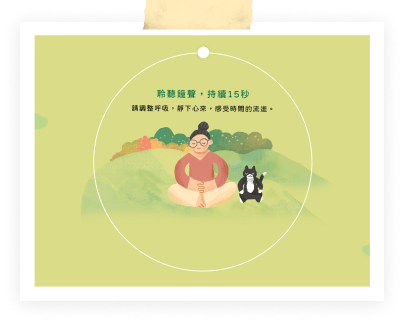
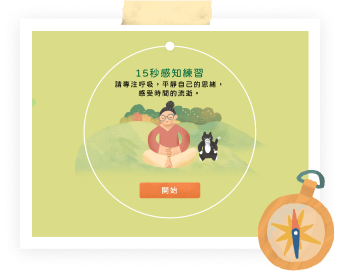
update ui

diff --git a/js/game/game2-common.js b/js/game/game2-common.js
@@ -75,9 +75,9 @@ function InitializeGame2UI() {
     gameUILibrary.AddUIElements({
         "ui-loading-bg": {transform:{left:'0%', top:'0%', width:'100%', height:'100%'}, image:{imgSrc:"img/gameCommon/loading-bg-min.png"}},
         // "ui-loading-title": {transform:{top:'17.5%', height:'10%'}, text:{fontFamily:'CustomFont', fontSize:46, letterSpacing:4, color:'#00693E', text:'「觀」官相識'}},
-        "ui-loading-title": {transform:{left:'40.59%', top:'15.4%', width:'18.81%', height:'7%'}, image:{imgSrc:"img/game2ui/title-2-min.png"}},
-        "ui-loading-img-main": {transform:{left:'37.375%', top:'24.5%', width:'25.25%', height:'35.89%'}, image:{imgSrc:"img/game2ui/loading-main-min.png"}},
-        "ui-loading-img-compass": {transform:{left:'55.7%', top:'48.2%', width:'9.75%', height:'16.33%'}, image:{imgSrc:"img/gameCommon/loading-compass-min.png"}},
+        "ui-loading-title": {transform:{left:'38.43%', top:'13.66%', width:'23.88%', height:'8.88%'}, image:{imgSrc:"img/game2ui/title-2-min.png"}},
+        "ui-loading-img-main": {transform:{left:'40.18%', top:'28%', width:'21.25%', height:'30.11%'}, image:{imgSrc:"img/game2ui/loading-main-min.png"}},
+        // "ui-loading-img-compass": {transform:{left:'55.7%', top:'48.2%', width:'9.75%', height:'16.33%'}, image:{imgSrc:"img/gameCommon/loading-compass-min.png"}},
         "ui-loading-loadingbar": {transform:{left:'28%', top:'70.5%', width:'44%', height:'1.8%'}, loadingBar:{color1: '#fff', color2: '#F97930', round: 10}},
         "ui-loading-img-nail": {transform:{left:'27%', top:'66.5%', width:'4%', height:'7.22%'}, image:{imgSrc:"img/gameCommon/loading-nail-min.png"}},
         "ui-loading-img-sound": {transform:{left:'17.5%', top:'77.5%', width:'2.8125%', height:'5%'}, image:{imgSrc:"img/gameCommon/loading-sound.gif"}},
@@ -98,7 +98,7 @@ function InitializeGame2UI() {
         "ui-main-button4": {transform:{left:'33.1%', top:'66.19%', width:'33.8%', height:'9.36%'}, button:{imgSrc:"img/gameCommon/button-min.png", round:10, fontFamily:'CustomFont', fontSize:42, letterSpacing:4, color:'white', text:'', onclick:()=>{OnClickGame2UIButton(4);}}},
         "ui-main-image-correct": {transform:{left:'45.31%', top:'29%', width:'9.375%', height:'16.67%'}, image:{imgSrc:"img/gameCommon/correct-min.png"}},
         "ui-main-image-wrong": {transform:{left:'45.31%', top:'29%', width:'9.375%', height:'16.67%'}, image:{imgSrc:"img/gameCommon/wrong-min.png"}},
-        "ui-main-image-bird": {transform:{left:'42.53%', top:'29%', width:'14.94%', height:'19.83%'}, image:{imgSrc:"img/game2ui/bird-min.png"}},
+        "ui-main-image-bird": {transform:{left:'40.43%', top:'35.55%', width:'18.75%', height:'22.22%'}, image:{imgSrc:"img/game2ui/bird-min.png"}},
 
         // "ui-bg": {transform:{left:'0', top:'0', width:'100%', height:'100%'}, image:{imgSrc:"img/11.jpg"}},
     });
@@ -123,7 +123,7 @@ function ShowGame2LoadingUI() {
     gameUILibrary.data["ui-loading-bg"].SetEnabled(true);
     gameUILibrary.data["ui-loading-title"].SetEnabled(true);
     gameUILibrary.data["ui-loading-img-main"].SetEnabled(true);
-    gameUILibrary.data["ui-loading-img-compass"].SetEnabled(true);
+    // gameUILibrary.data["ui-loading-img-compass"].SetEnabled(true);
     gameUILibrary.data["ui-loading-loadingbar"].SetEnabled(true);
     gameUILibrary.data["ui-loading-img-nail"].SetEnabled(true);
     gameUILibrary.data["ui-loading-img-sound"].SetEnabled(true);
@@ -143,7 +143,7 @@ function HideGame2LoadingUI() {
     gameUILibrary.data["ui-loading-bg"].SetEnabled(false);
     gameUILibrary.data["ui-loading-title"].SetEnabled(false);
     gameUILibrary.data["ui-loading-img-main"].SetEnabled(false);
-    gameUILibrary.data["ui-loading-img-compass"].SetEnabled(false);
+    // gameUILibrary.data["ui-loading-img-compass"].SetEnabled(false);
     gameUILibrary.data["ui-loading-loadingbar"].SetEnabled(false);
     gameUILibrary.data["ui-loading-img-nail"].SetEnabled(false);
     gameUILibrary.data["ui-loading-img-sound"].SetEnabled(false);

diff --git a/js/game/game5-main.js b/js/game/game5-main.js
@@ -190,9 +190,10 @@ function InitializeGame5UI() {
     gameUILibrary.AddUIElements({
         "ui-loading-bg": {transform:{left:'0%', top:'0%', width:'100%', height:'100%'}, image:{imgSrc:"img/gameCommon/loading-bg-min.png"}},
         // "ui-loading-title": {transform:{top:'15.4%', height:'10%'}, text:{fontFamily:'CustomFont', fontSize:38, letterSpacing:4, color:'#00693E', text:'靜觀動樂 配對大挑戰'}},
-        "ui-loading-title": {transform:{left:'24.07%', top:'15.4%', width:'51.85%', height:'6.88%'}, image:{imgSrc:"img/game5ui/title-5-min.png"}},
-        "ui-loading-img-main": {transform:{left:'40.16%', top:'25.5%', width:'19.68%', height:'30.11%'}, image:{imgSrc:"img/game5ui/loading-main-min.png"}},
-        "ui-loading-img-compass": {transform:{left:'53.2%', top:'43.4%', width:'9.03%', height:'16.33%'}, image:{imgSrc:"img/gameCommon/loading-compass-min.png"}},
+        "ui-loading-title": {transform:{left:'26.21%', top:'13.66%', width:'22.35%', height:'8.88%'}, image:{imgSrc:"img/game5ui/title-5a-min.png"}},
+        "ui-loading-title2": {transform:{left:'50.30%', top:'13.66%', width:'23.79%', height:'8.88%'}, image:{imgSrc:"img/game5ui/title-5b-min.png"}},
+        "ui-loading-img-main": {transform:{left:'40.74%', top:'25.88%', width:'19.68%', height:'30.11%'}, image:{imgSrc:"img/game5ui/loading-main-min.png"}},
+        // "ui-loading-img-compass": {transform:{left:'53.2%', top:'43.4%', width:'9.03%', height:'16.33%'}, image:{imgSrc:"img/gameCommon/loading-compass-min.png"}},
         "ui-loading-loadingbar": {transform:{left:'30%', top:'64%', width:'40%', height:'1.8%'}, loadingBar:{color1: '#fff', color2: '#F97930', round: 10}},
         "ui-loading-img-nail": {transform:{left:'28%', top:'60%', width:'4%', height:'7.22%'}, image:{imgSrc:"img/gameCommon/loading-nail-min.png"}},
         "ui-loading-img-sound": {transform:{left:'17.5%', top:'77.5%', width:'3.47%', height:'6.67%'}, image:{imgSrc:"img/gameCommon/loading-sound.gif"}},
@@ -272,8 +273,9 @@ function InitializeGame5UI() {
 function ShowGame5LoadingUI() {
     gameUILibrary.data["ui-loading-bg"].SetEnabled(true);
     gameUILibrary.data["ui-loading-title"].SetEnabled(true);
+    gameUILibrary.data["ui-loading-title2"].SetEnabled(true);
     gameUILibrary.data["ui-loading-img-main"].SetEnabled(true);
-    gameUILibrary.data["ui-loading-img-compass"].SetEnabled(true);
+    // gameUILibrary.data["ui-loading-img-compass"].SetEnabled(true);
     gameUILibrary.data["ui-loading-loadingbar"].SetEnabled(true);
     gameUILibrary.data["ui-loading-img-nail"].SetEnabled(true);
     gameUILibrary.data["ui-loading-img-sound"].SetEnabled(true);
@@ -290,8 +292,9 @@ function UpdateGame5LoadingBar(_progress) {
 function HideGame5LoadingUI() {
     gameUILibrary.data["ui-loading-bg"].SetEnabled(false);
     gameUILibrary.data["ui-loading-title"].SetEnabled(false);
+    gameUILibrary.data["ui-loading-title2"].SetEnabled(false);
     gameUILibrary.data["ui-loading-img-main"].SetEnabled(false);
-    gameUILibrary.data["ui-loading-img-compass"].SetEnabled(false);
+    // gameUILibrary.data["ui-loading-img-compass"].SetEnabled(false);
     gameUILibrary.data["ui-loading-loadingbar"].SetEnabled(false);
     gameUILibrary.data["ui-loading-img-nail"].SetEnabled(false);
     gameUILibrary.data["ui-loading-img-sound"].SetEnabled(false);

diff --git a/js/game/game1-main.js b/js/game/game1-main.js
@@ -54,9 +54,9 @@ function InitializeGame1UI() {
     gameUILibrary.AddUIElements({
         "ui-loading-bg": {transform:{left:'0%', top:'0%', width:'100%', height:'100%'}, image:{imgSrc:"img/gameCommon/loading-bg-min.png"}},
         // "ui-loading-title": {transform:{top:'15.4%', height:'10%'}, text:{fontFamily:'CustomFont', fontSize:38, letterSpacing:4, color:'#00693E', text:'「靜」之感知'}},
-        "ui-loading-title": {transform:{left:'41.61%', top:'15.4%', width:'16.78%', height:'7.89%'}, image:{imgSrc:"img/game1ui/title-1-min.png"}},
-        "ui-loading-img-main": {transform:{left:'40.16%', top:'25.5%', width:'19.68%', height:'30.11%'}, image:{imgSrc:"img/game1ui/loading-main-min.png"}},
-        "ui-loading-img-compass": {transform:{left:'53.2%', top:'43.4%', width:'9.03%', height:'16.33%'}, image:{imgSrc:"img/gameCommon/loading-compass-min.png"}},
+        "ui-loading-title": {transform:{left:'40.39%', top:'13.66%', width:'19.67%', height:'9.28%'}, image:{imgSrc:"img/game1ui/title-1-min.png"}},
+        "ui-loading-img-main": {transform:{left:'40.79%', top:'26.28%', width:'19.67%', height:'30.11%'}, image:{imgSrc:"img/game1ui/loading-main-min.png"}},
+        // "ui-loading-img-compass": {transform:{left:'53.2%', top:'43.4%', width:'9.03%', height:'16.33%'}, image:{imgSrc:"img/gameCommon/loading-compass-min.png"}},
         "ui-loading-loadingbar": {transform:{left:'30%', top:'64%', width:'40%', height:'1.8%'}, loadingBar:{color1: '#fff', color2: '#F97930', round: 10}},
         "ui-loading-img-nail": {transform:{left:'28%', top:'60%', width:'4%', height:'7.22%'}, image:{imgSrc:"img/gameCommon/loading-nail-min.png"}},
         "ui-loading-img-sound": {transform:{left:'17.5%', top:'77.5%', width:'3.47%', height:'6.67%'}, image:{imgSrc:"img/gameCommon/loading-sound.gif"}},
@@ -119,7 +119,7 @@ function ShowLoadingGame1UI() {
     gameUILibrary.data["ui-loading-bg"].SetEnabled(true);
     gameUILibrary.data["ui-loading-title"].SetEnabled(true);
     gameUILibrary.data["ui-loading-img-main"].SetEnabled(true);
-    gameUILibrary.data["ui-loading-img-compass"].SetEnabled(true);
+    // gameUILibrary.data["ui-loading-img-compass"].SetEnabled(true);
     gameUILibrary.data["ui-loading-loadingbar"].SetEnabled(true);
     gameUILibrary.data["ui-loading-img-nail"].SetEnabled(true);
     gameUILibrary.data["ui-loading-img-sound"].SetEnabled(true);
@@ -137,7 +137,7 @@ function HideGame1LoadingUI() {
     gameUILibrary.data["ui-loading-bg"].SetEnabled(false);
     gameUILibrary.data["ui-loading-title"].SetEnabled(false);
     gameUILibrary.data["ui-loading-img-main"].SetEnabled(false);
-    gameUILibrary.data["ui-loading-img-compass"].SetEnabled(false);
+    // gameUILibrary.data["ui-loading-img-compass"].SetEnabled(false);
     gameUILibrary.data["ui-loading-loadingbar"].SetEnabled(false);
     gameUILibrary.data["ui-loading-img-nail"].SetEnabled(false);
     gameUILibrary.data["ui-loading-img-sound"].SetEnabled(false);

diff --git a/js/game/game3-main.js b/js/game/game3-main.js
@@ -61,9 +61,9 @@ function InitializeGame3UI() {
     gameUILibrary.AddUIElements({
         "ui-loading-bg": {transform:{left:'0%', top:'0%', width:'100%', height:'100%'}, image:{imgSrc:"img/gameCommon/loading-bg-min.png"}},
         // "ui-loading-title": {transform:{top:'15.4%', height:'10%'}, text:{fontFamily:'CustomFont', fontSize:52, letterSpacing:4, color:'#00693E', text:'「動」破激流'}},
-        "ui-loading-title": {transform:{left:'40.75%', top:'15.4%', width:'18.51%', height:'6.55%'}, image:{imgSrc:"img/game3ui/title-3-min.png"}},
-        "ui-loading-img-main": {transform:{left:'40.16%', top:'25.5%', width:'19.68%', height:'30.11%'}, image:{imgSrc:"img/game3ui/loading-main-min.png"}},
-        "ui-loading-img-compass": {transform:{left:'53.2%', top:'43.4%', width:'9.03%', height:'16.33%'}, image:{imgSrc:"img/gameCommon/loading-compass-min.png"}},
+        "ui-loading-title": {transform:{left:'37.61%', top:'13.66%', width:'25.01%', height:'8.88%'}, image:{imgSrc:"img/game3ui/title-3-min.png"}},
+        "ui-loading-img-main": {transform:{left:'40.68%', top:'25.88%', width:'19.68%', height:'30.11%'}, image:{imgSrc:"img/game3ui/loading-main-min.png"}},
+        // "ui-loading-img-compass": {transform:{left:'53.2%', top:'43.4%', width:'9.03%', height:'16.33%'}, image:{imgSrc:"img/gameCommon/loading-compass-min.png"}},
         "ui-loading-loadingbar": {transform:{left:'30%', top:'64%', width:'40%', height:'1.8%'}, loadingBar:{color1: '#fff', color2: '#F97930', round: 10}},
         "ui-loading-img-nail": {transform:{left:'28%', top:'60%', width:'4%', height:'7.22%'}, image:{imgSrc:"img/gameCommon/loading-nail-min.png"}},
         "ui-loading-img-sound": {transform:{left:'17.5%', top:'77.5%', width:'3.47%', height:'6.67%'}, image:{imgSrc:"img/gameCommon/loading-sound.gif"}},
@@ -156,7 +156,7 @@ function ShowGame3LoadingUI() {
     gameUILibrary.data["ui-loading-bg"].SetEnabled(true);
     gameUILibrary.data["ui-loading-title"].SetEnabled(true);
     gameUILibrary.data["ui-loading-img-main"].SetEnabled(true);
-    gameUILibrary.data["ui-loading-img-compass"].SetEnabled(true);
+    // gameUILibrary.data["ui-loading-img-compass"].SetEnabled(true);
     gameUILibrary.data["ui-loading-loadingbar"].SetEnabled(true);
     gameUILibrary.data["ui-loading-img-nail"].SetEnabled(true);
     gameUILibrary.data["ui-loading-img-sound"].SetEnabled(true);
@@ -174,7 +174,7 @@ function HideGame3LoadingUI() {
     gameUILibrary.data["ui-loading-bg"].SetEnabled(false);
     gameUILibrary.data["ui-loading-title"].SetEnabled(false);
     gameUILibrary.data["ui-loading-img-main"].SetEnabled(false);
-    gameUILibrary.data["ui-loading-img-compass"].SetEnabled(false);
+    // gameUILibrary.data["ui-loading-img-compass"].SetEnabled(false);
     gameUILibrary.data["ui-loading-loadingbar"].SetEnabled(false);
     gameUILibrary.data["ui-loading-img-nail"].SetEnabled(false);
     gameUILibrary.data["ui-loading-img-sound"].SetEnabled(false);

diff --git a/js/game/game4-main.js b/js/game/game4-main.js
@@ -39,9 +39,9 @@ function InitializeGame4UI() {
     gameUILibrary.AddUIElements({
         "ui-loading-bg": {transform:{left:'0%', top:'0%', width:'100%', height:'100%'}, image:{imgSrc:"img/gameCommon/loading-bg-min.png"}},
         // "ui-loading-title": {transform:{top:'15.4%', height:'10%'}, text:{fontFamily:'CustomFont', fontSize:52, letterSpacing:4, color:'#00693E', text:'「樂」於助人'}},
-        "ui-loading-title": {transform:{left:'41.43%', top:'15.4%', width:'17.13%', height:'7%'}, image:{imgSrc:"img/game4ui/title-4-min.png"}},
-        "ui-loading-img-main": {transform:{left:'40.16%', top:'25.5%', width:'19.68%', height:'30.11%'}, image:{imgSrc:"img/game4ui/loading-main-min.png"}},
-        "ui-loading-img-compass": {transform:{left:'53.2%', top:'43.4%', width:'9.03%', height:'16.33%'}, image:{imgSrc:"img/gameCommon/loading-compass-min.png"}},
+        "ui-loading-title": {transform:{left:'39.35%', top:'13.66%', width:'21.75%', height:'8.88%'}, image:{imgSrc:"img/game4ui/title-4-min.png"}},
+        "ui-loading-img-main": {transform:{left:'40.79%', top:'25.88%', width:'19.68%', height:'30.11%'}, image:{imgSrc:"img/game4ui/loading-main-min.png"}},
+        // "ui-loading-img-compass": {transform:{left:'53.2%', top:'43.4%', width:'9.03%', height:'16.33%'}, image:{imgSrc:"img/gameCommon/loading-compass-min.png"}},
         "ui-loading-loadingbar": {transform:{left:'30%', top:'64%', width:'40%', height:'1.8%'}, loadingBar:{color1: '#fff', color2: '#F97930', round: 10}},
         "ui-loading-img-nail": {transform:{left:'28%', top:'60%', width:'4%', height:'7.22%'}, image:{imgSrc:"img/gameCommon/loading-nail-min.png"}},
         "ui-loading-img-sound": {transform:{left:'17.5%', top:'77.5%', width:'3.47%', height:'6.67%'}, image:{imgSrc:"img/gameCommon/loading-sound.gif"}},
@@ -158,7 +158,7 @@ function ShowGame4LoadingUI() {
     gameUILibrary.data["ui-loading-bg"].SetEnabled(true);
     gameUILibrary.data["ui-loading-title"].SetEnabled(true);
     gameUILibrary.data["ui-loading-img-main"].SetEnabled(true);
-    gameUILibrary.data["ui-loading-img-compass"].SetEnabled(true);
+    // gameUILibrary.data["ui-loading-img-compass"].SetEnabled(true);
     gameUILibrary.data["ui-loading-loadingbar"].SetEnabled(true);
     gameUILibrary.data["ui-loading-img-nail"].SetEnabled(true);
     gameUILibrary.data["ui-loading-img-sound"].SetEnabled(true);
@@ -176,7 +176,7 @@ function HideGame4LoadingUI() {
     gameUILibrary.data["ui-loading-bg"].SetEnabled(false);
     gameUILibrary.data["ui-loading-title"].SetEnabled(false);
     gameUILibrary.data["ui-loading-img-main"].SetEnabled(false);
-    gameUILibrary.data["ui-loading-img-compass"].SetEnabled(false);
+    // gameUILibrary.data["ui-loading-img-compass"].SetEnabled(false);
     gameUILibrary.data["ui-loading-loadingbar"].SetEnabled(false);
     gameUILibrary.data["ui-loading-img-nail"].SetEnabled(false);
     gameUILibrary.data["ui-loading-img-sound"].SetEnabled(false);
